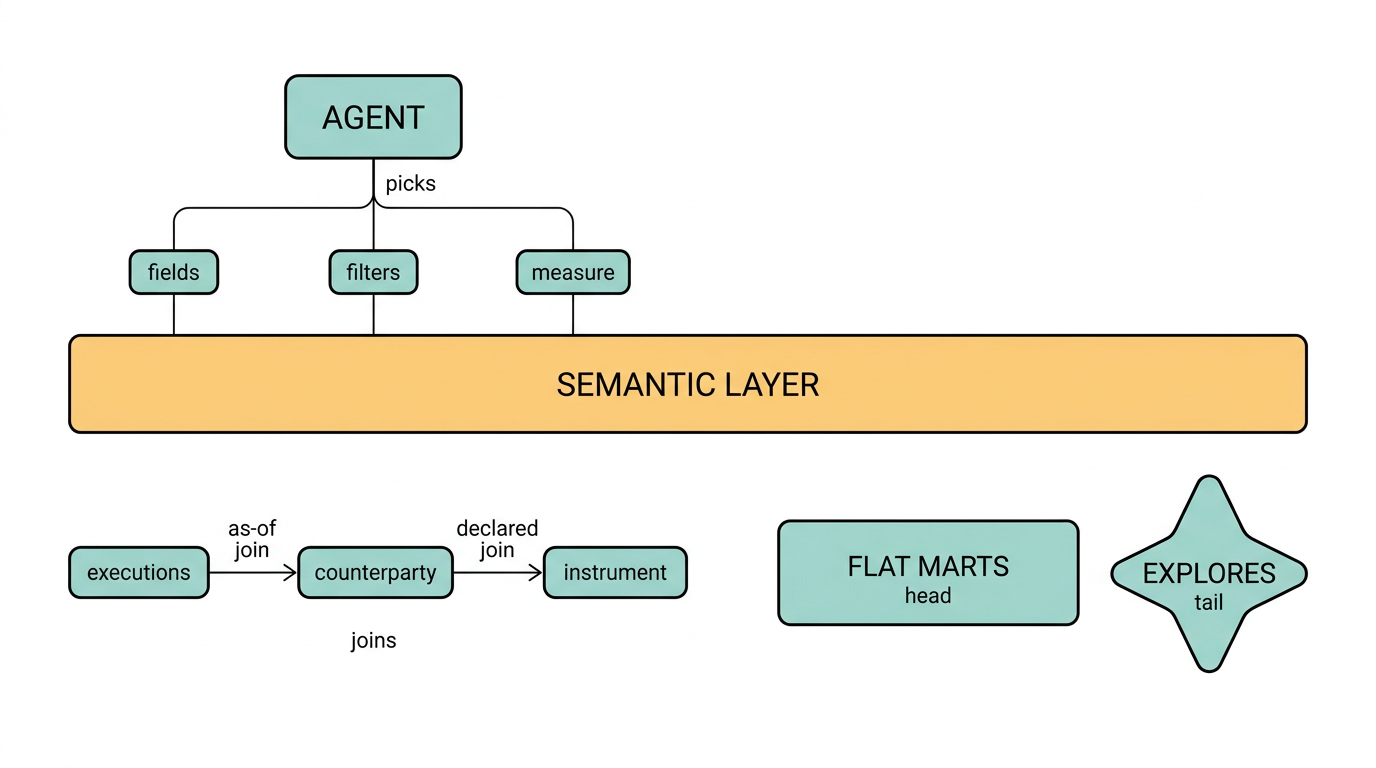
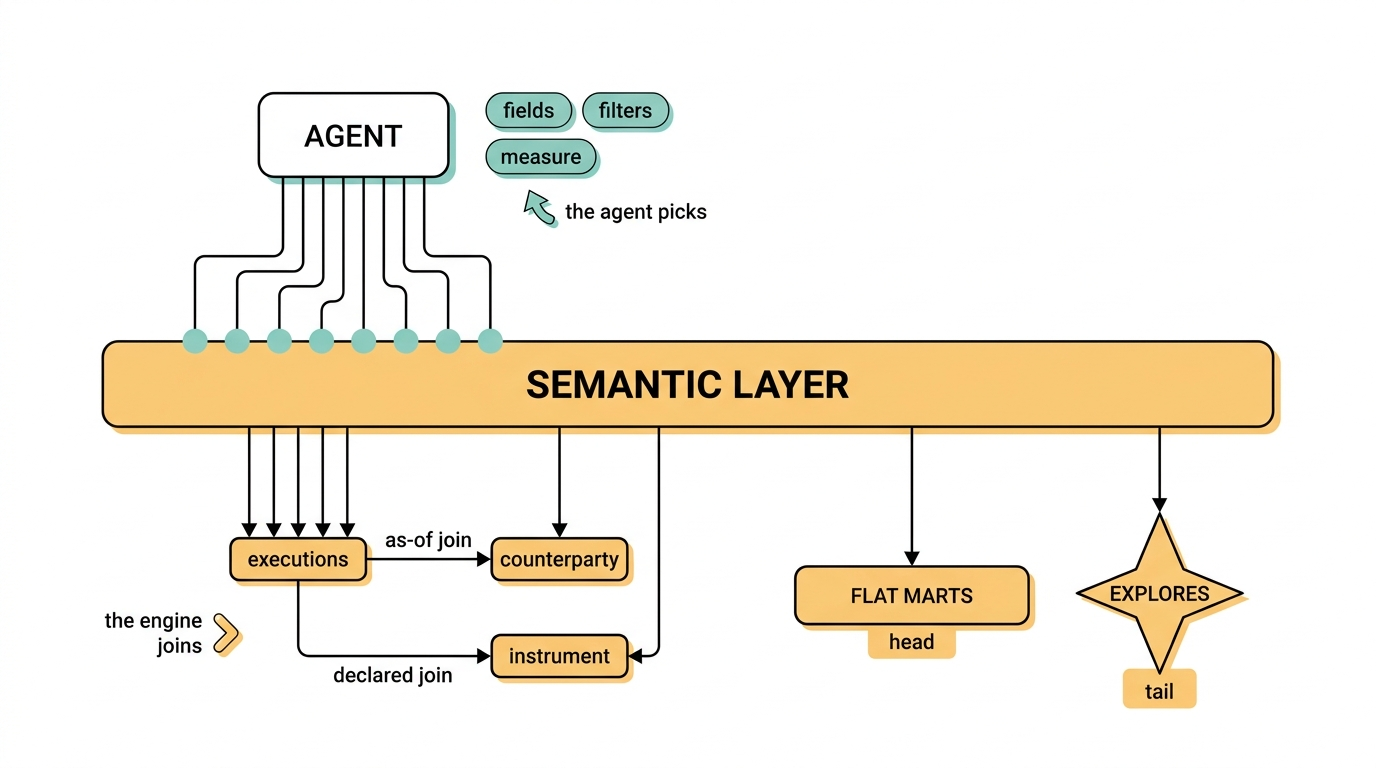
Redraw agent-picks-engine-joins: connect joins/marts/explores to the layer
Prompt revised so the join graph, flat marts, and explores visibly hang
off the semantic-layer bar (connectors), and the agent's lines terminate
at the bar — conveying the layer as mediator, not free-floating boxes.

Changed region(s): [[0.0312, 0.0938, 0.9688, 0.875], [0.5625, 0.625, 0.9688, 0.9375], [0.2188, 0.8125, 0.4688, 0.9062]]

diff --git a/render_missing_figures.py b/render_missing_figures.py
@@ -40,12 +40,12 @@ DIAGRAM = (
 
 JOBS = [
  ("agent-picks-engine-joins.png", "16:9", DIAGRAM +
-  "Title idea conveyed visually, not written: 'the agent picks; the engine joins'. A single wide horizontal bar across the middle labelled 'SEMANTIC LAYER'. "
-  "ABOVE the bar: one node labelled 'AGENT' reaching down to the bar and selecting three small chips labelled 'fields', 'filters', 'measure'; a small caption label 'picks'. "
-  "BELOW the bar: a declared join graph — three small entity tiles labelled 'executions', 'counterparty', 'instrument' connected by two thin labelled arrows, one arrow labelled 'as-of join' and one labelled 'declared join'; a small caption label 'joins'. "
-  "The agent above never connects directly to the entity tiles below — every line from the agent stops at the SEMANTIC LAYER bar. "
-  "To the lower right, two governed output surfaces side by side: a wide flat rectangle labelled 'FLAT MARTS' with a small sub-label 'head', and a small four-point star shape labelled 'EXPLORES' with a small sub-label 'tail'. "
-  "Clean, balanced, lots of air."),
+  "Conveys visually (not as written text): 'the agent picks; the engine joins', with the SEMANTIC LAYER as the single hub that everything connects THROUGH. "
+  "A wide horizontal bar across the middle labelled 'SEMANTIC LAYER' is the spine of the whole figure. "
+  "ABOVE the bar: one node labelled 'AGENT' with connector lines running straight DOWN and TERMINATING in small solid dots ON the top edge of the bar — the lines visibly STOP at the bar; the agent connects to nothing below it. Beside the agent, three small chips it selects: 'fields', 'filters', 'measure'; small label 'the agent picks'. "
+  "BELOW the bar: a declared join graph of three entity tiles labelled 'executions', 'counterparty', 'instrument' wired to each other by two labelled arrows, 'as-of join' and 'declared join'. CRITICAL: this join graph is attached to the underside of the SEMANTIC LAYER bar by clear connector lines dropping from the bar down into it, so it visibly hangs off / is driven by the layer — it must NOT float as a separate unconnected box. Small label 'the engine joins'. "
+  "Also attached to the bar by their own connector lines (dropping from the bar), to the lower right, two governed output surfaces the layer exposes: a wide flat rectangle labelled 'FLAT MARTS' (sub-label 'head') and a small four-point star labelled 'EXPLORES' (sub-label 'tail'). "
+  "Every element below the bar connects UP to the SEMANTIC LAYER by a visible line; nothing below floats unconnected. The diagram must read as: the agent picks AT the layer, the layer does the joining and emits both surfaces, nothing below is reached except through the layer. Clean, balanced, lots of air."),
 
  ("reflexive-loop.png", "1:1", DIAGRAM +
   "Four concentric circular loops nested around a central rounded bar labelled 'SEMANTIC LAYER'. Each loop is a labelled circular arrow, from innermost to outermost: "
